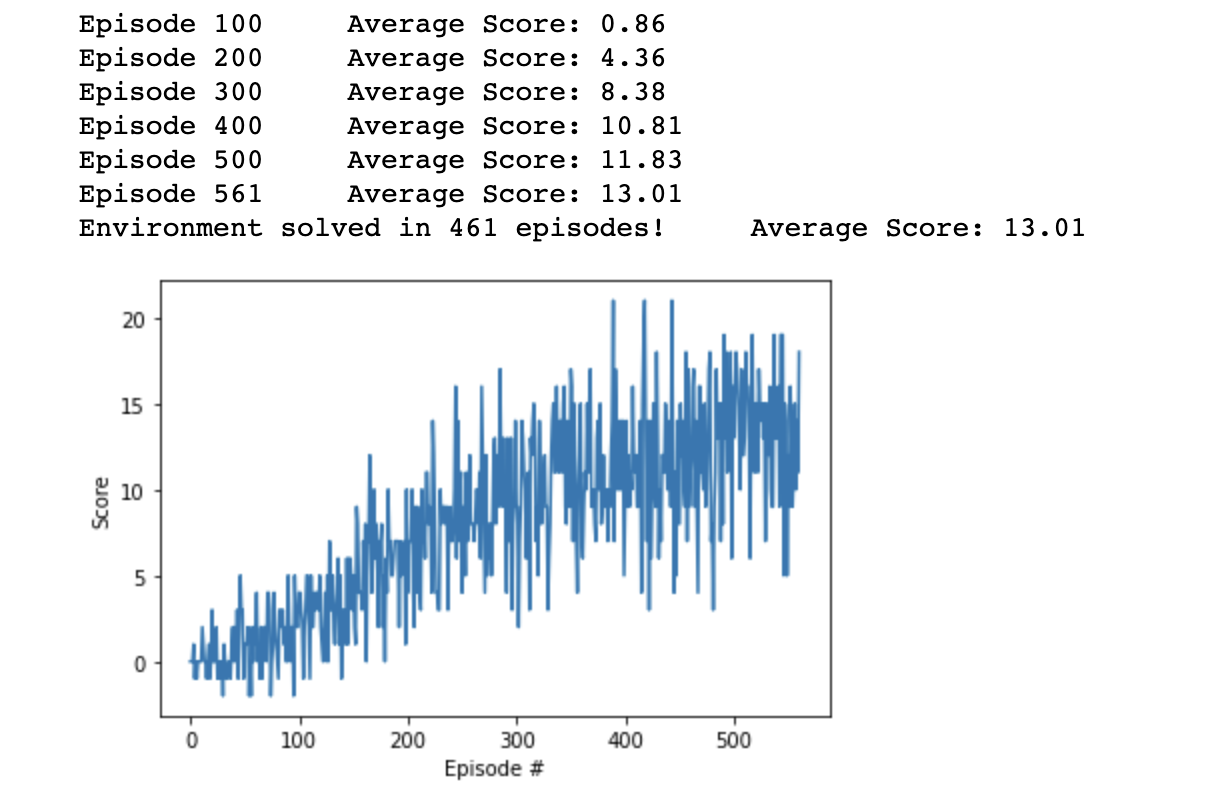
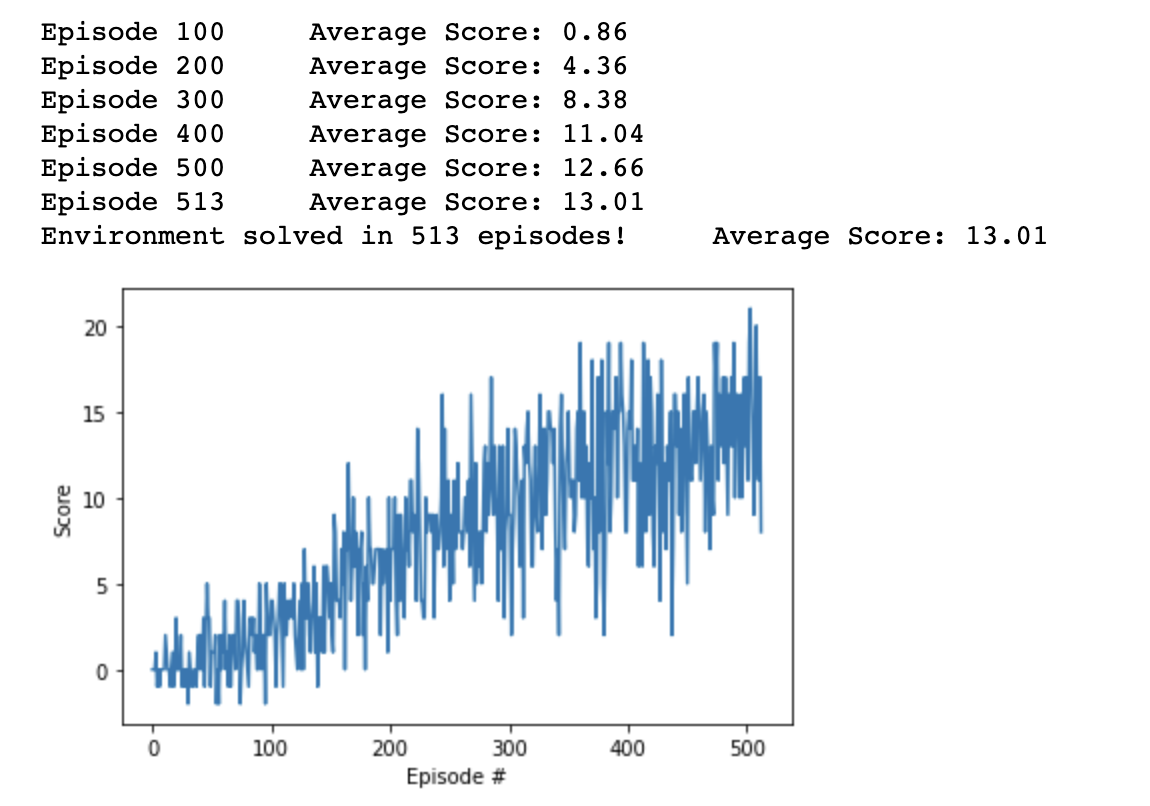
feedback: include reviewer feedback

Changed region(s): [[0.0304, 0.3412, 0.7, 0.9926], [0.0304, 0.0, 0.5783, 0.3102], [0.6087, 0.2481, 0.913, 0.3102]]

diff --git a/README.md b/README.md
@@ -80,8 +80,12 @@ The task is episodic, and in order to solve the environment, your agent must get
       `conda create --name drlnd python=3.6 `
       
       `activate drlnd`
+      
+3. Install the dependencies in the newly created env by running in the shell:
+     
+     `pip install -r requirements.txt`
 
-3. Download the environment from one of the links below.  You need only select the environment that matches your operating system:
+4. Download the environment from one of the links below.  You need only select the environment that matches your operating system:
     - Linux: [click here](https://s3-us-west-1.amazonaws.com/udacity-drlnd/P1/Banana/Banana_Linux.zip)
     - Mac OSX: [click here](https://s3-us-west-1.amazonaws.com/udacity-drlnd/P1/Banana/Banana.app.zip)
     - Windows (32-bit): [click here](https://s3-us-west-1.amazonaws.com/udacity-drlnd/P1/Banana/Banana_Windows_x86.zip)
@@ -91,16 +95,14 @@ The task is episodic, and in order to solve the environment, your agent must get
 
     (_For AWS_) If you'd like to train the agent on AWS (and have not [enabled a virtual screen](https://github.com/Unity-Technologies/ml-agents/blob/master/docs/Training-on-Amazon-Web-Service.md)), then please use [this link](https://s3-us-west-1.amazonaws.com/udacity-drlnd/P1/Banana/Banana_Linux_NoVis.zip) to obtain the environment.
 
-4. Place the file in the `navigation/` folder, and unzip (or decompress) the file. 
+5. Place the file in the `navigation/` folder, and unzip (or decompress) the file. 
 
+6. Create an IPython kernel for the drlnd environment:
 
-5. Create an IPython kernel for the drlnd environment:
+    `python -m ipykernel install --user --name drlnd --display-name "drlnd"`
 
-`python -m ipykernel install --user --name drlnd --display-name "drlnd"`
+7. Run in the terminal of the current  directory:
 
+    `jupyter notebook`
 
-6.  Run in the terminal of the current  directory:
-
-`jupyter notebook`
-
-7. Go to the `Navigation.ipynb` and run the code there
+8. Go to the `Navigation.ipynb` and run the code there based on the instructions.

diff --git a/Report.md b/Report.md
@@ -33,7 +33,7 @@ Activation functions for layers are ReLu and RMSprop optimizer is used, same as 
 
 ![RewardsPlot](report_episode_score.png) 
 
-The environment was solved in 461 episodes
+The environment was solved in 513 episodes
 
 ### Ideas for Future Work
 First of all, I would try error clipping and prioritized replay to see how it behaves.
